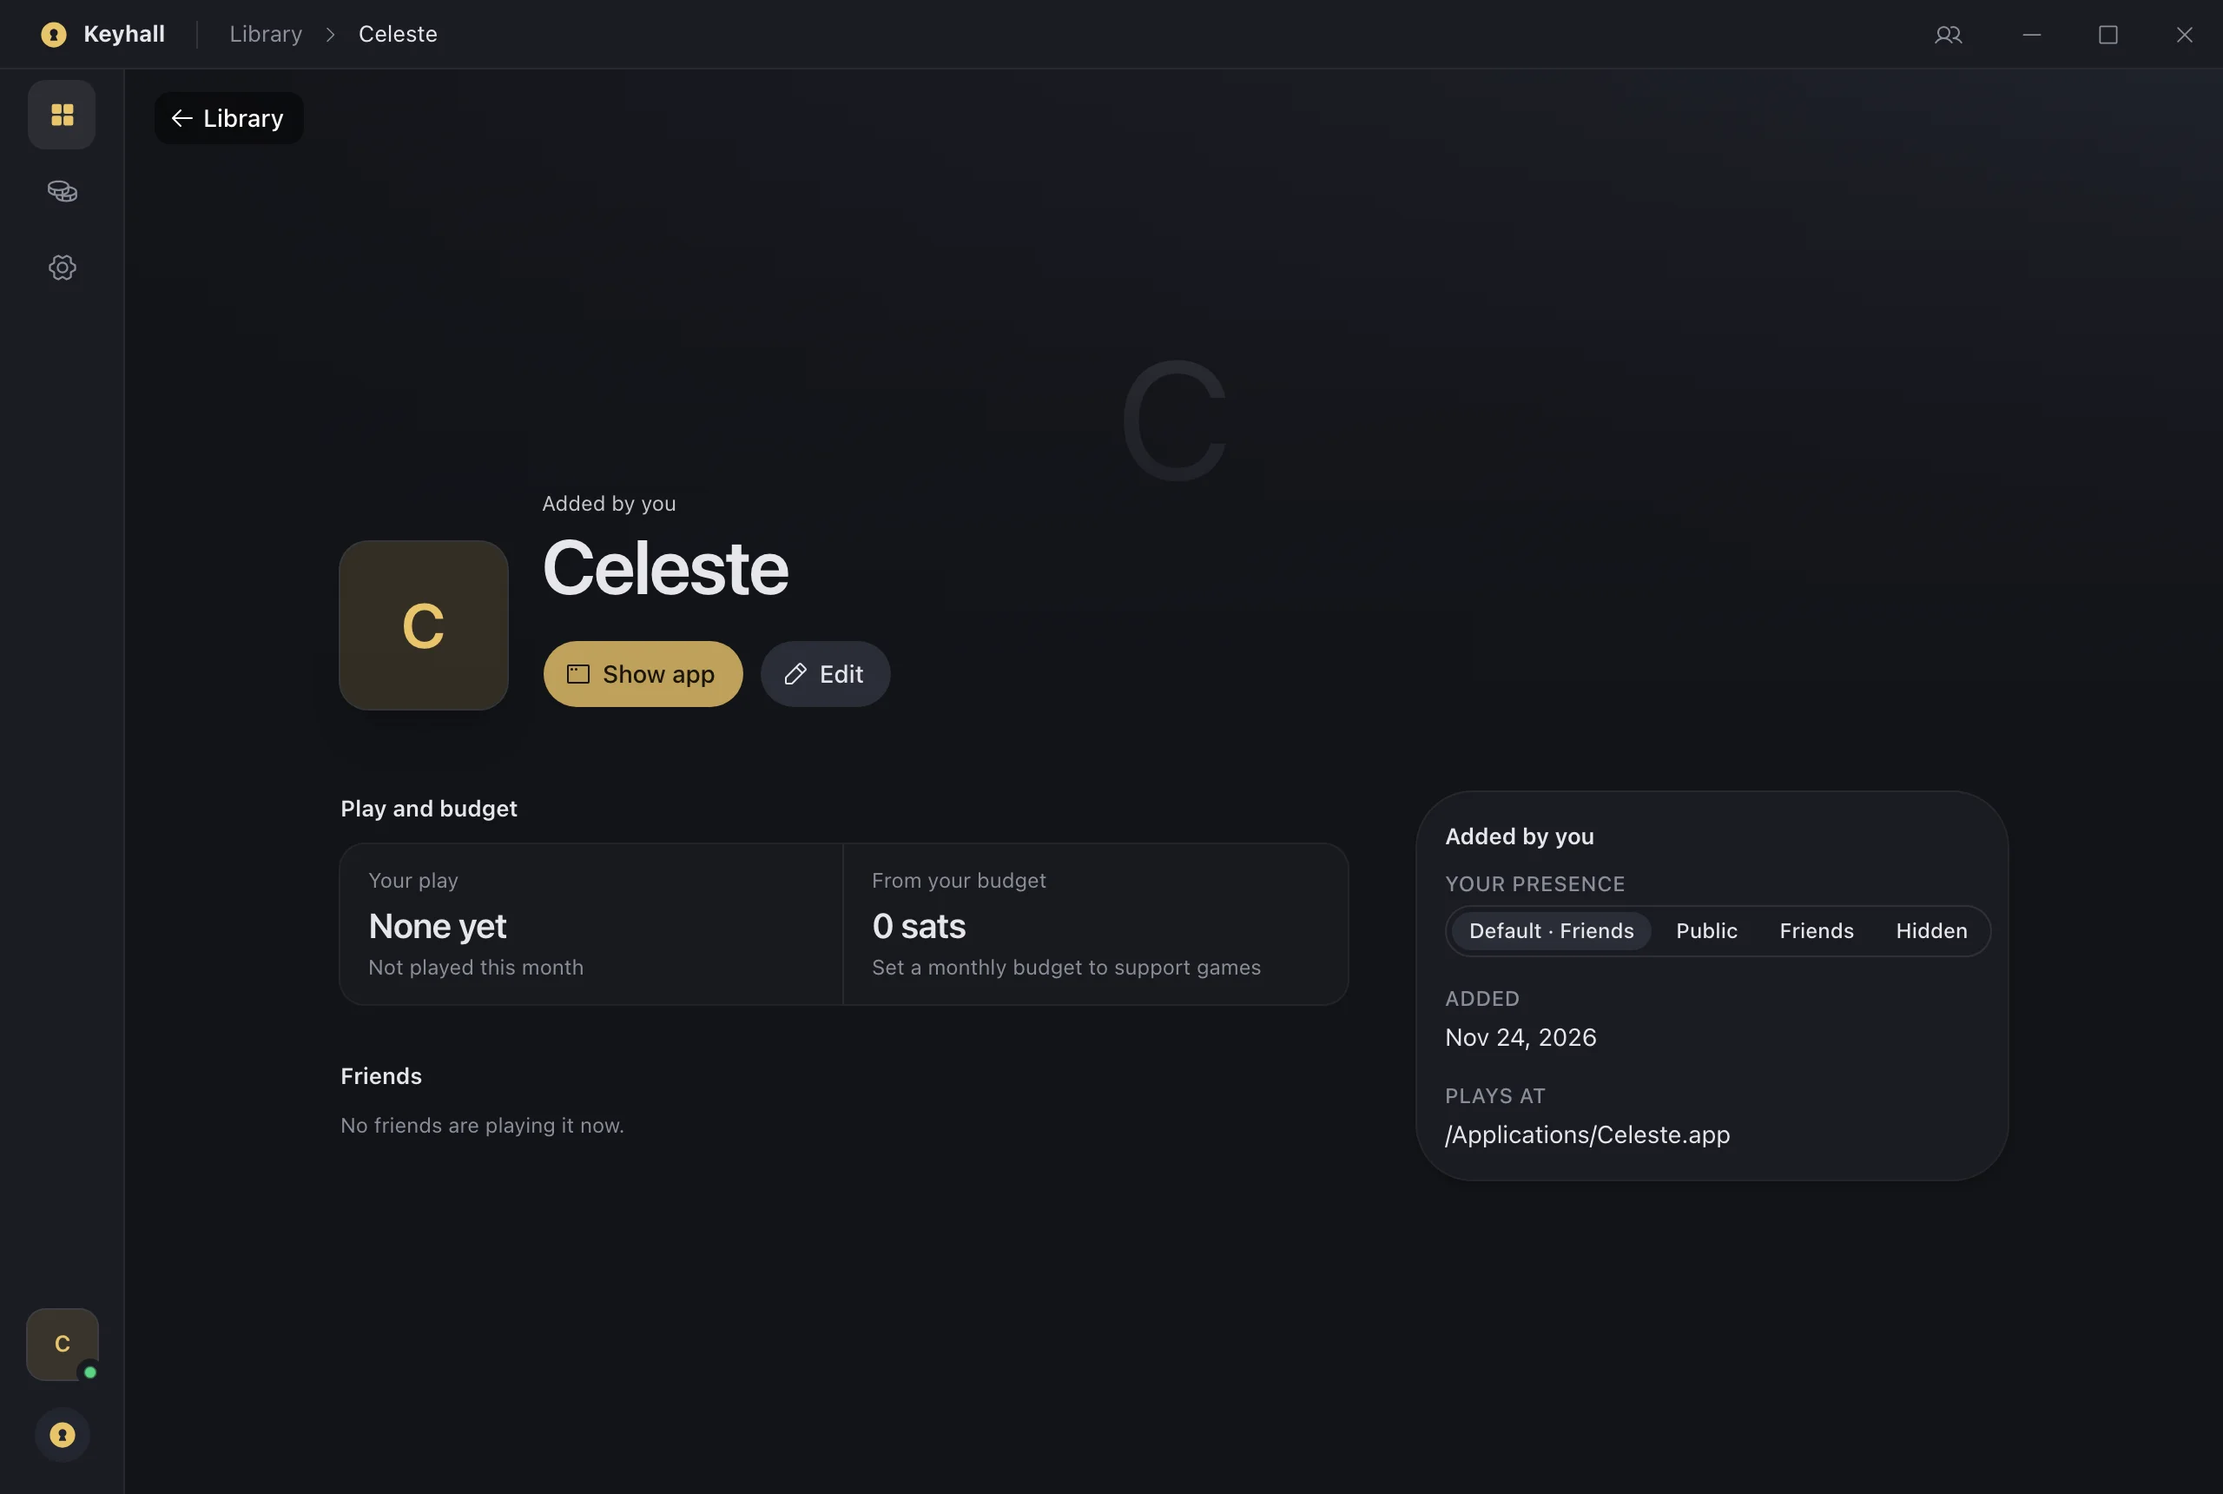
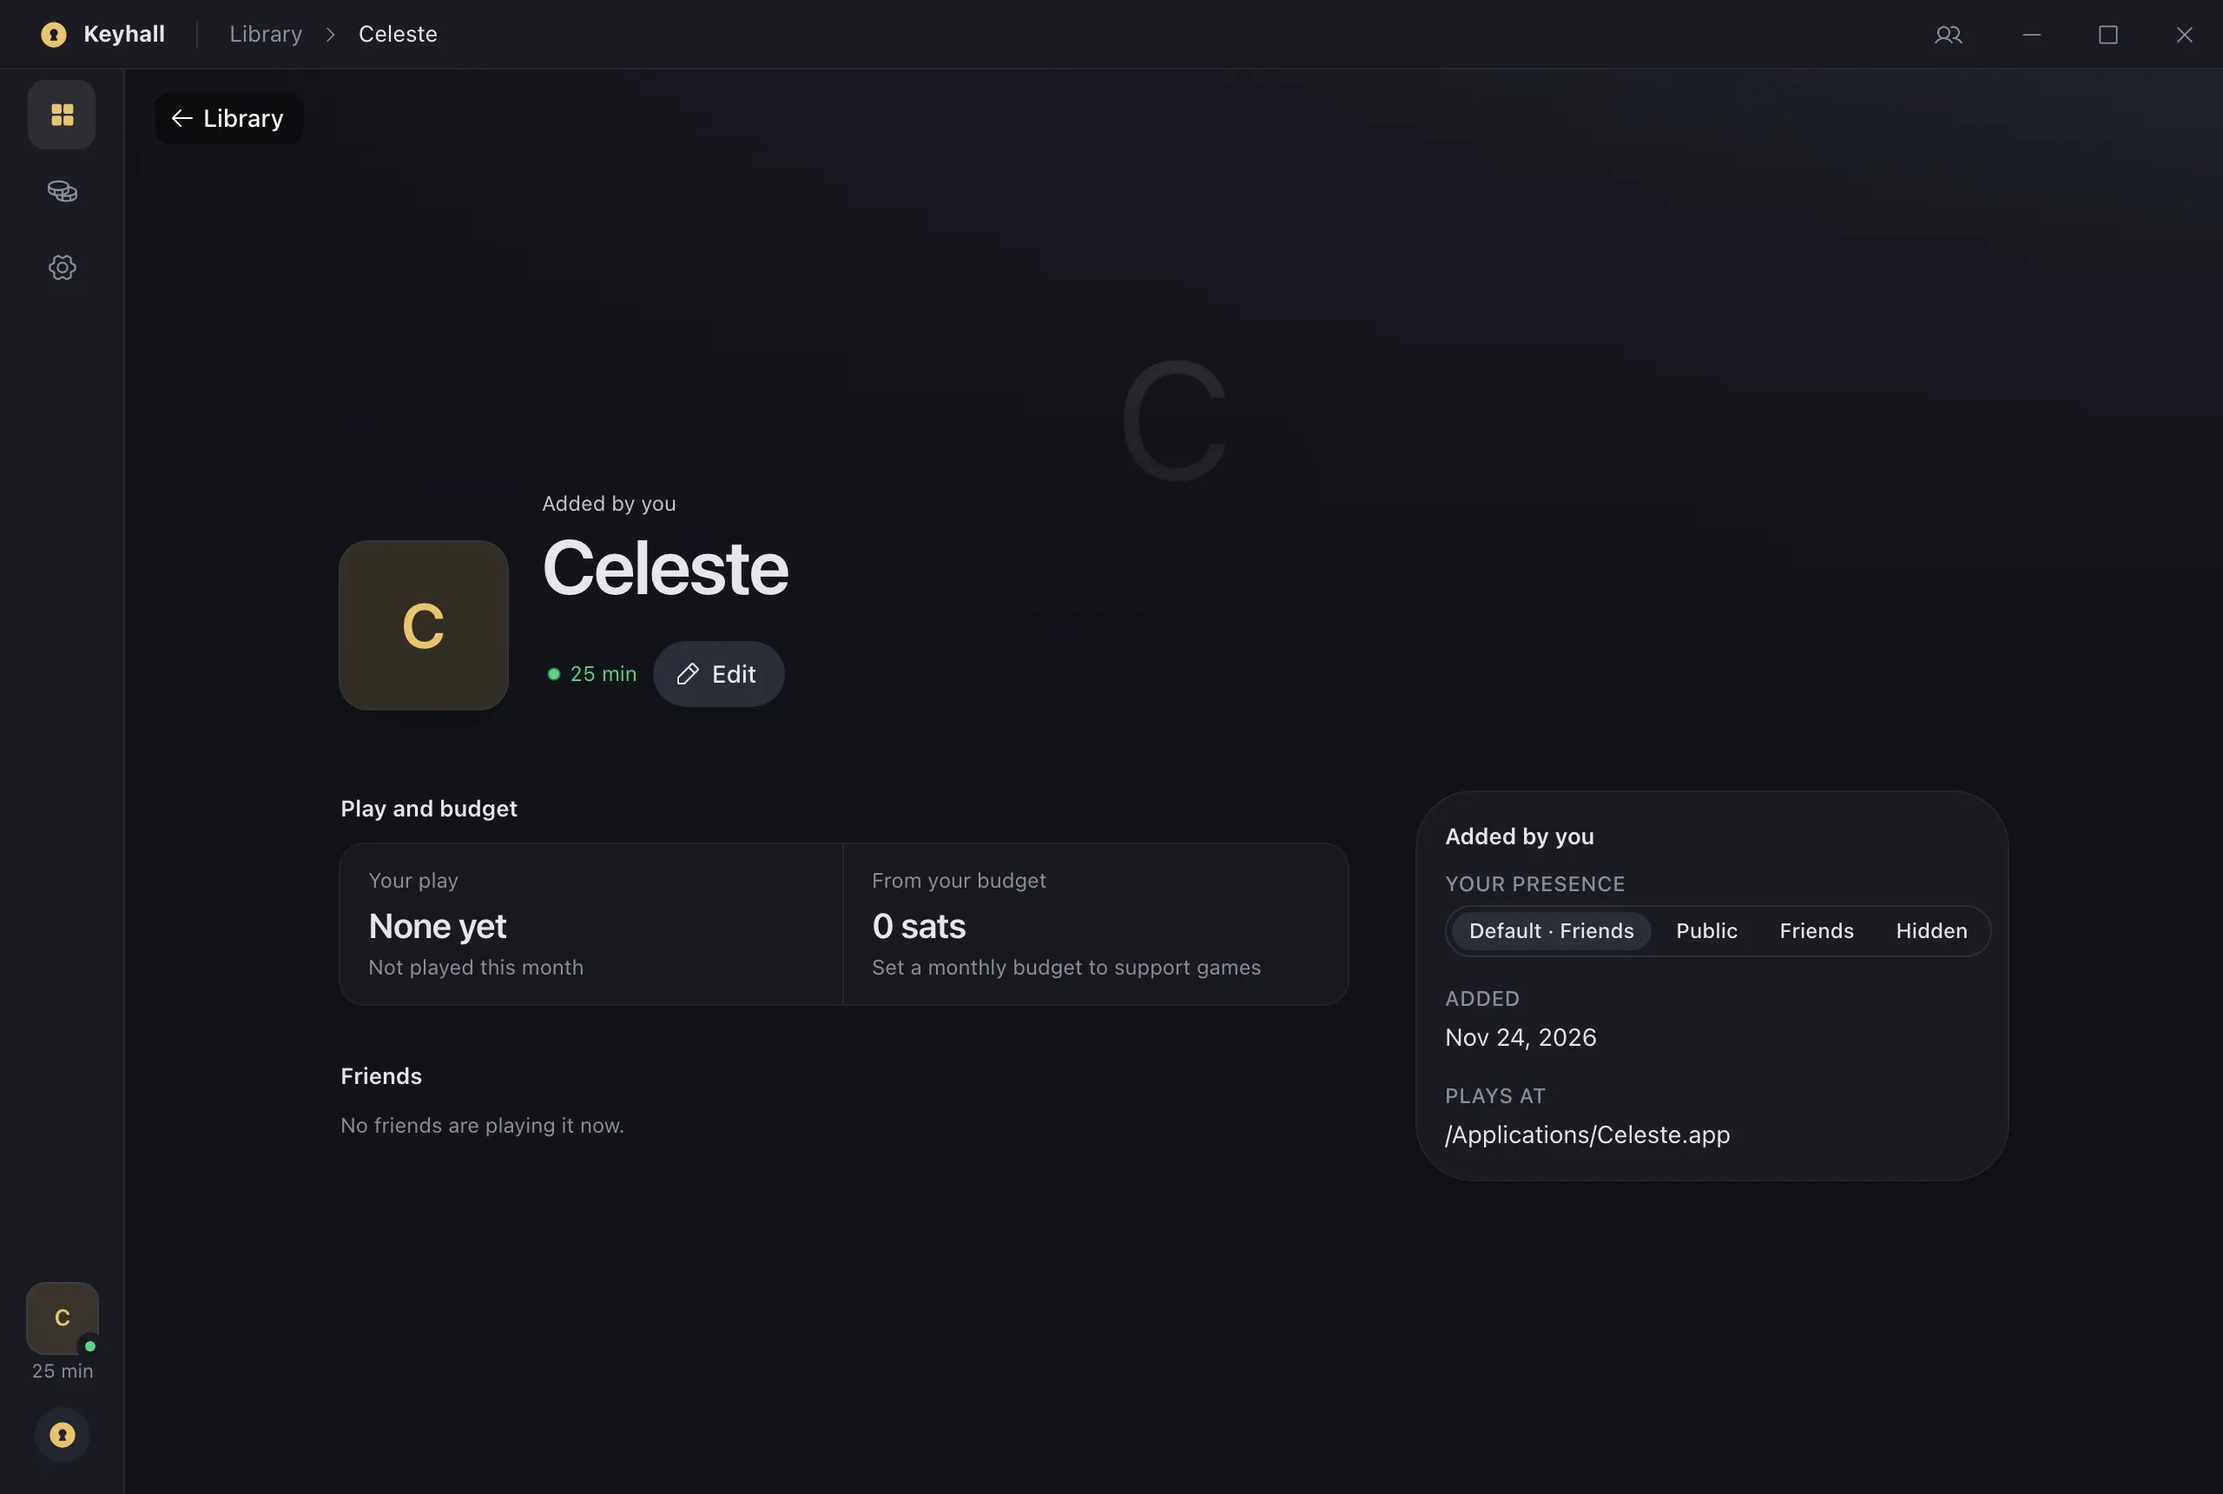
refactor: one platform-neutral path for apps on this computer
Pick with the Tauri dialog plugin instead of osascript, launch and track any
program the OS can run, keep the per-OS bits (picker filter, path to command)
in one cfg'd spot in apps.rs, and drop the Mac wording from the UI.

Changed region(s): [[0.2188, 0.4314, 0.4062, 0.493], [0.0, 0.8628, 0.0625, 0.9244]]

diff --git a/packages/core/src/custom.test.ts b/packages/core/src/custom.test.ts
@@ -5,7 +5,7 @@ const web: CustomGame = { id: "a", name: "Chess", url: "https://chess.example", 
 const app: CustomGame = { id: "b", name: "Celeste", url: "/Applications/Celeste.app", addedAt: 6 };
 
 describe("custom games", () => {
-  it("adds a web game or a macOS app, and edits one in place", () => {
+  it("adds a web game or an app on this computer, and edits one in place", () => {
     const added = saveCustom([], { name: " Chess ", url: "https://chess.example" }, 5);
     expect(added).toEqual([
       { id: expect.any(String), name: "Chess", url: "https://chess.example", addedAt: 5 },
@@ -18,11 +18,16 @@ describe("custom games", () => {
     ).toEqual([{ id, name: "Chess 2", url: web.url, lud16: "me@x.io", addedAt: 5 }, both[1]]);
   });
 
-  it("rejects entries without a name, an https URL or .app, or with a bad lightning address", () => {
+  it("takes a local program by its absolute path on any OS", () => {
+    for (const url of ["/usr/games/nethack", "C:\\Games\\Doom.exe", "/Applications/Celeste.app"])
+      expect(customGame(saveCustom([], { name: "X", url }, 1)[0] as CustomGame).custom).toBe("app");
+  });
+
+  it("rejects entries without a name, an https URL or a program, or with a bad lightning address", () => {
     expect(saveCustom([], { name: "", url: web.url }, 1)).toBe("Give it a name.");
-    for (const url of ["http://x.io", "chess.example", "/bin/sh"])
+    for (const url of ["http://x.io", "chess.example", "Games/doom.exe"])
       expect(saveCustom([], { name: "X", url }, 1)).toBe(
-        "Enter an https:// address or choose a .app.",
+        "Enter an https:// address or choose an app.",
       );
     expect(saveCustom([], { name: "X", url: web.url, lud16: "nope" }, 1)).toBe(
       "A lightning address looks like name@domain.com.",

diff --git a/apps/desktop/src/CustomDialog.tsx b/apps/desktop/src/CustomDialog.tsx
@@ -45,7 +45,7 @@ export function CustomDialog({
     setOpen(o);
     setError("");
     setFields(entry ? { ...blank, ...entry } : blank);
-    setApp(!!entry?.url.startsWith("/"));
+    setApp(!!entry && !entry.url.startsWith("https://"));
   };
   const choose = async () => {
     const path = await pickApp();
@@ -55,9 +55,9 @@ export function CustomDialog({
         name:
           fields.name ||
           path
-            .split("/")
+            .split(/[\\/]/)
             .pop()!
-            .replace(/\.app$/, ""),
+            .replace(/\.\w+$/, ""),
       });
   };
   const save = () => {
@@ -73,7 +73,7 @@ export function CustomDialog({
         <DialogHeader>
           <DialogTitle>{entry ? `Edit ${entry.name}` : "Add a game"}</DialogTitle>
           <DialogDescription>
-            Only on this Mac: nothing about it is published except your presence while you play.
+            It stays on this computer; only your presence is published while you play.
           </DialogDescription>
         </DialogHeader>
         {!entry && (
@@ -81,7 +81,7 @@ export function CustomDialog({
             {(
               [
                 [false, GlobeIcon, "Web game"],
-                [true, AppWindowIcon, "Mac app"],
+                [true, AppWindowIcon, "App on this computer"],
               ] as const
             ).map(([isApp, Icon, label]) => (
               <button

diff --git a/packages/core/src/custom.ts b/packages/core/src/custom.ts
@@ -12,14 +12,14 @@ export type CustomInput = Pick<CustomGame, "name" | "url"> & Partial<CustomGame>
 
 export const CUSTOM_ID = "custom";
 const LUD16 = /^[^@\s]+@[^@\s]+\.[^@\s]+$/;
-const isApp = (url: string) => url.startsWith("/") && /\.app\/?$/.test(url);
+const isApp = (url: string) => /^(\/|[a-z]:\\)/i.test(url);
 
 export function saveCustom(list: CustomGame[], input: CustomInput, now: number) {
   const name = input.name.trim();
   const url = input.url.trim();
   const lud16 = input.lud16?.trim();
   if (!name) return "Give it a name.";
-  if (!https(url) && !isApp(url)) return "Enter an https:// address or choose a .app.";
+  if (!https(url) && !isApp(url)) return "Enter an https:// address or choose an app.";
   if (lud16 && !LUD16.test(lud16)) return "A lightning address looks like name@domain.com.";
   const old = list.find((c) => c.id === input.id);
   const saved = {

diff --git a/apps/desktop/src/GamePage.tsx b/apps/desktop/src/GamePage.tsx
@@ -151,11 +151,11 @@ export function GamePage({ game }: { game: Game }) {
             <div className="mt-5 flex flex-wrap items-center gap-2">
               {run ? (
                 <>
-                  <Button size="lg" onClick={() => send({ type: "play", game })}>
-                    <AppWindowIcon data-icon="inline-start" /> Show {app ? "app" : "window"}
-                  </Button>
                   {!app && (
                     <>
+                      <Button size="lg" onClick={() => send({ type: "play", game })}>
+                        <AppWindowIcon data-icon="inline-start" /> Show window
+                      </Button>
                       <Button
                         size="lg"
                         variant="secondary"

diff --git a/apps/desktop/src-tauri/src/apps.rs b/apps/desktop/src-tauri/src/apps.rs
@@ -4,7 +4,6 @@ use std::sync::{Arc, Mutex};
 use std::time::Duration;
 
 const POLL: Duration = Duration::from_millis(500);
-const PICK: &str = r#"POSIX path of (choose file of type {"com.apple.application-bundle"} default location (path to applications folder) with prompt "Choose a game or app")"#;
 
 /// A launched process Keyhall watches until it exits or Keyhall stops watching.
 pub struct Tracked(Arc<Mutex<Child>>);
@@ -30,40 +29,38 @@ pub fn track(
     Ok(Tracked(child))
 }
 
-fn bundle(path: &str) -> Result<&str, String> {
-    let trimmed = path.trim_end_matches('/');
-    if trimmed.starts_with('/') && trimmed.ends_with(".app") && Path::new(trimmed).is_dir() {
-        Ok(trimmed)
-    } else {
-        Err("Choose a macOS app (.app)".into())
-    }
+/// The command for a picked file, running as long as the program does.
+pub fn launch(path: &str) -> Result<Command, String> {
+    let path = Path::new(path.trim_end_matches(['/', '\\']));
+    path.is_absolute()
+        .then(|| program(path))
+        .flatten()
+        .ok_or_else(|| "Keyhall can't launch that file on this computer".into())
 }
 
-/// `open -W` runs as long as the app does, so its exit is the app's.
-pub fn open(path: &str, wait: bool) -> Result<Command, String> {
-    let mut command = Command::new("/usr/bin/open");
-    if wait {
-        command.arg("-W");
-    }
-    command.arg("-a").arg(bundle(path)?);
-    Ok(command)
-}
+/// The per-OS part: which files the picker offers and how one becomes a command.
+#[cfg(target_os = "macos")]
+pub const PICK: &[&str] = &["app"];
+#[cfg(windows)]
+pub const PICK: &[&str] = &["exe"];
+#[cfg(not(any(target_os = "macos", windows)))]
+pub const PICK: &[&str] = &[];
 
-/// The macOS file dialog for apps; `None` when the player cancels.
-pub fn pick() -> Result<Option<String>, String> {
-    let out = Command::new("/usr/bin/osascript")
-        .args(["-e", PICK])
-        .output()
-        .map_err(|e| e.to_string())?;
-    if !out.status.success() {
-        return Ok(None);
+fn program(path: &Path) -> Option<Command> {
+    #[cfg(target_os = "macos")]
+    if path.extension().is_some_and(|e| e == "app") && path.is_dir() {
+        let mut open = Command::new("/usr/bin/open");
+        open.arg("-W").arg("-a").arg(path);
+        return Some(open);
     }
-    Ok(Some(
-        String::from_utf8_lossy(&out.stdout)
-            .trim()
-            .trim_end_matches('/')
-            .into(),
-    ))
+    #[cfg(unix)]
+    let runs =
+        std::os::unix::fs::PermissionsExt::mode(&path.metadata().ok()?.permissions()) & 0o111 != 0;
+    #[cfg(windows)]
+    let runs = path
+        .extension()
+        .is_some_and(|e| e.eq_ignore_ascii_case("exe"));
+    (runs && path.is_file()).then(|| Command::new(path))
 }
 
 #[cfg(test)]
@@ -92,18 +89,27 @@ mod tests {
         assert!(exited.recv_timeout(Duration::from_secs(5)).is_ok());
     }
 
+    #[cfg(unix)]
     #[test]
-    fn launches_only_app_bundles() {
+    fn launches_an_executable_directly() {
+        let command = launch("/bin/sleep").unwrap();
+        assert_eq!(command.get_program(), "/bin/sleep");
+        assert_eq!(command.get_args().count(), 0);
+        assert!(launch("/etc/hosts").is_err());
+        assert!(launch("/bin").is_err());
+        assert!(launch("bin/sleep").is_err());
+        assert!(launch("/bin/missing").is_err());
+    }
+
+    #[cfg(target_os = "macos")]
+    #[test]
+    fn launches_an_app_bundle_through_open() {
         let dir = std::env::temp_dir().join(format!("keyhall-apps-{}", std::process::id()));
         let app = dir.join("Game.app");
         std::fs::create_dir_all(&app).unwrap();
-        let command = open(&format!("{}/", app.display()), true).unwrap();
-        assert_eq!(
-            command.get_args().collect::<Vec<_>>(),
-            ["-W", "-a", app.to_str().unwrap()]
-        );
-        assert!(open("/bin/sh", true).is_err());
-        assert!(open("Game.app", true).is_err());
-        assert!(open(dir.join("Missing.app").to_str().unwrap(), true).is_err());
+        let command = launch(&format!("{}/", app.display())).unwrap();
+        assert_eq!(command.get_program(), "/usr/bin/open");
+        assert!(command.get_args().eq(["-W", "-a", app.to_str().unwrap()]));
+        assert!(launch(dir.join("Missing.app").to_str().unwrap()).is_err());
     }
 }

diff --git a/apps/desktop/src-tauri/src/lib.rs b/apps/desktop/src-tauri/src/lib.rs
@@ -20,6 +20,7 @@ use tauri::{
     AppHandle, Emitter, LogicalPosition, LogicalSize, Manager, State, WebviewUrl, WebviewWindow,
     WebviewWindowBuilder, WindowEvent,
 };
+use tauri_plugin_dialog::DialogExt;
 use tauri_plugin_updater::UpdaterExt;
 use tokio::sync::oneshot;
 use url::Url;
@@ -399,10 +400,16 @@ fn game_closed(app: &AppHandle, label: &str, coordinate: &str) {
 }
 
 #[tauri::command]
-async fn pick_app() -> Result<Option<String>, String> {
-    tauri::async_runtime::spawn_blocking(apps::pick)
-        .await
-        .map_err(|e| e.to_string())?
+async fn pick_app(app: AppHandle) -> Option<String> {
+    let mut dialog = app.dialog().file().set_title("Choose a game or app");
+    if !apps::PICK.is_empty() {
+        dialog = dialog.add_filter("Apps", apps::PICK);
+    }
+    let (tx, rx) = oneshot::channel();
+    dialog.pick_file(|path| {
+        let _ = tx.send(path.and_then(|p| p.into_path().ok()));
+    });
+    Some(rx.await.ok()??.to_string_lossy().into())
 }
 
 #[tauri::command]
@@ -415,13 +422,10 @@ fn launch_app(
     path: String,
 ) -> Result<String, String> {
     let label = game_label(&path);
-    let command = apps::open(&path, true)?;
     if state.apps.lock().unwrap().contains_key(&label) {
-        apps::open(&path, false)?
-            .spawn()
-            .map_err(|e| e.to_string())?;
         return Ok(label);
     }
+    let command = apps::launch(&path)?;
     game_started(&state, &meter, &label, name, coordinate.clone());
     let (closed, coordinate_closed, handle) = (label.clone(), coordinate.clone(), app.clone());
     let mut tracked = state.apps.lock().unwrap();
@@ -809,6 +813,7 @@ fn hide_traffic_lights(window: &tauri::WebviewWindow) -> tauri::Result<()> {
 
 pub fn run() {
     tauri::Builder::default()
+        .plugin(tauri_plugin_dialog::init())
         .plugin(tauri_plugin_updater::Builder::new().build())
         .manage(Launcher::default())
         .setup(|app| {

diff --git a/README.md b/README.md
@@ -23,7 +23,7 @@ Once installed, Keyhall updates itself: it checks the latest release on launch a
 - Shows a sign-in badge from the listing's `auth` tags (worst case wins), a Nostr depth badge (`multiplayer`, `identity` or `none`) and when the game was last updated.
 - Reads NIP-32 labels (kind 1985) from the curators of your enabled sources. A curator's label wins over the listing's tags and the badge gets a “verified by” seal; where the listing, curators and the game window disagree, the game page says who says what.
 - Opens each web game in its own window with an injected `window.nostr` (`getPublicKey`, `signEvent`). Rust answers both. The first time a game asks to sign an event kind, Keyhall dims the game and asks you to allow or deny it in its overlay, a separate webview the game can't script. The running game sits at the bottom of the navigation rail with its play time, Show and Quit. Ctrl+⌘F toggles full screen in a game window.
-- Add a game adds anything nobody listed, like Steam's non-Steam games: a web game by https address, which opens in a game window like any other, or a Mac app, which Keyhall launches and watches until it quits. These entries stay in local storage with a “Custom” badge; presence, play time and the budget work as for listed games, and a custom game gets a budget share only if you give it a lightning address.
+- Add a game adds anything nobody listed, like Steam's non-Steam games: a web game by https address, which opens in a game window like any other, or an app on this computer (an executable, a `.app` on macOS or an `.exe` on Windows), which Keyhall launches and watches until it quits. These entries stay in local storage with a “Custom” badge; presence, play time and the budget work as for listed games, and a custom game gets a budget share only if you give it a lightning address.
 - Warns, in the overlay, when the game's window shows an input that looks like it wants a key (an `nsec` or 64-hex placeholder, or a name, id or label such as “private key”). The check reads only those attributes, never what's typed.
 - Shift+Tab in a game (change it in Settings) opens Keyhall's overlay over the game: the game's play time this session and which friends are playing. Windows in the overlay move by their header, with the pointer or the arrow keys (Ctrl+Tab switches windows), and stay where you leave them. Escape or the hotkey goes back to the game.
 - If your key curates one of your sources, “Label this game” signs a label with it and publishes only when you confirm.
